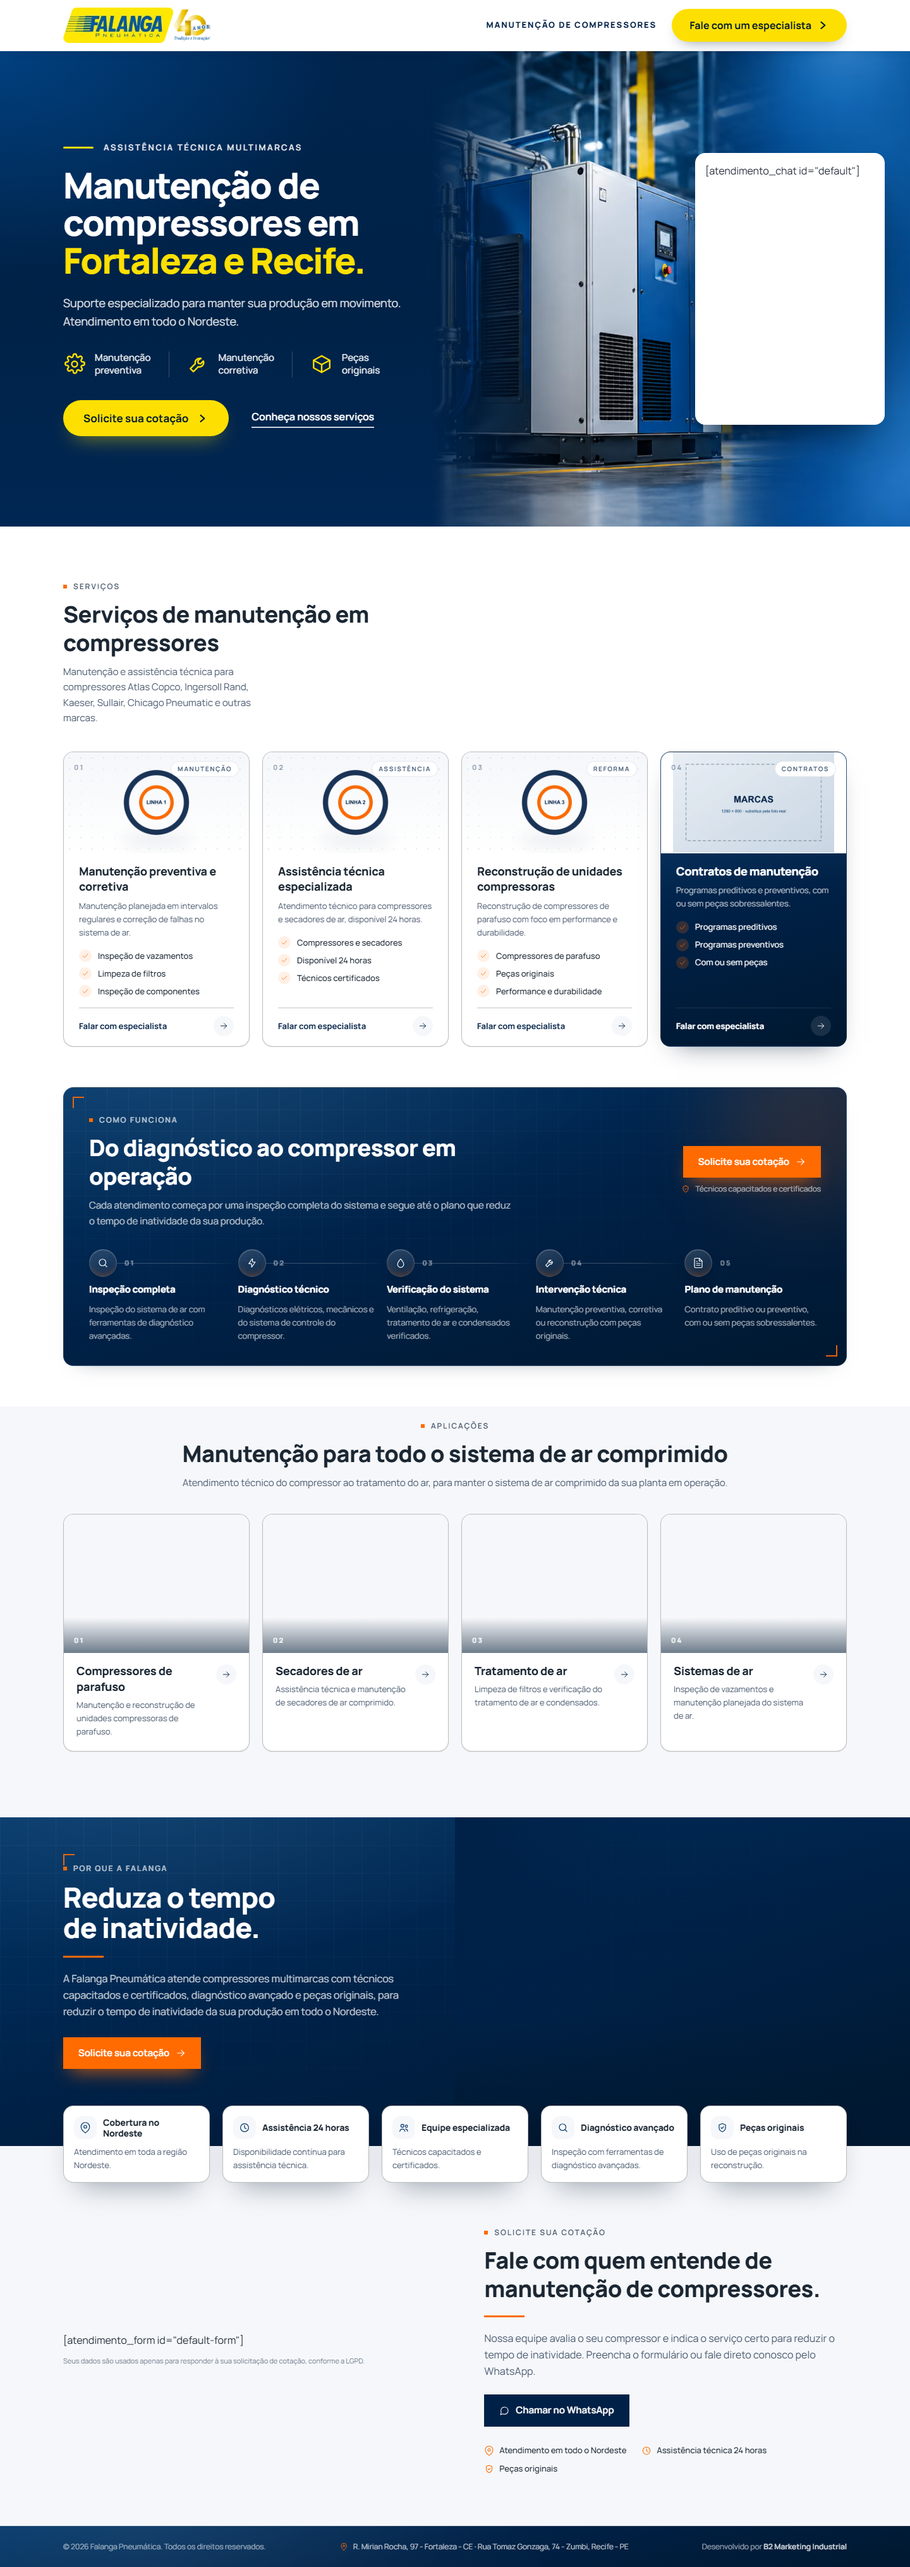
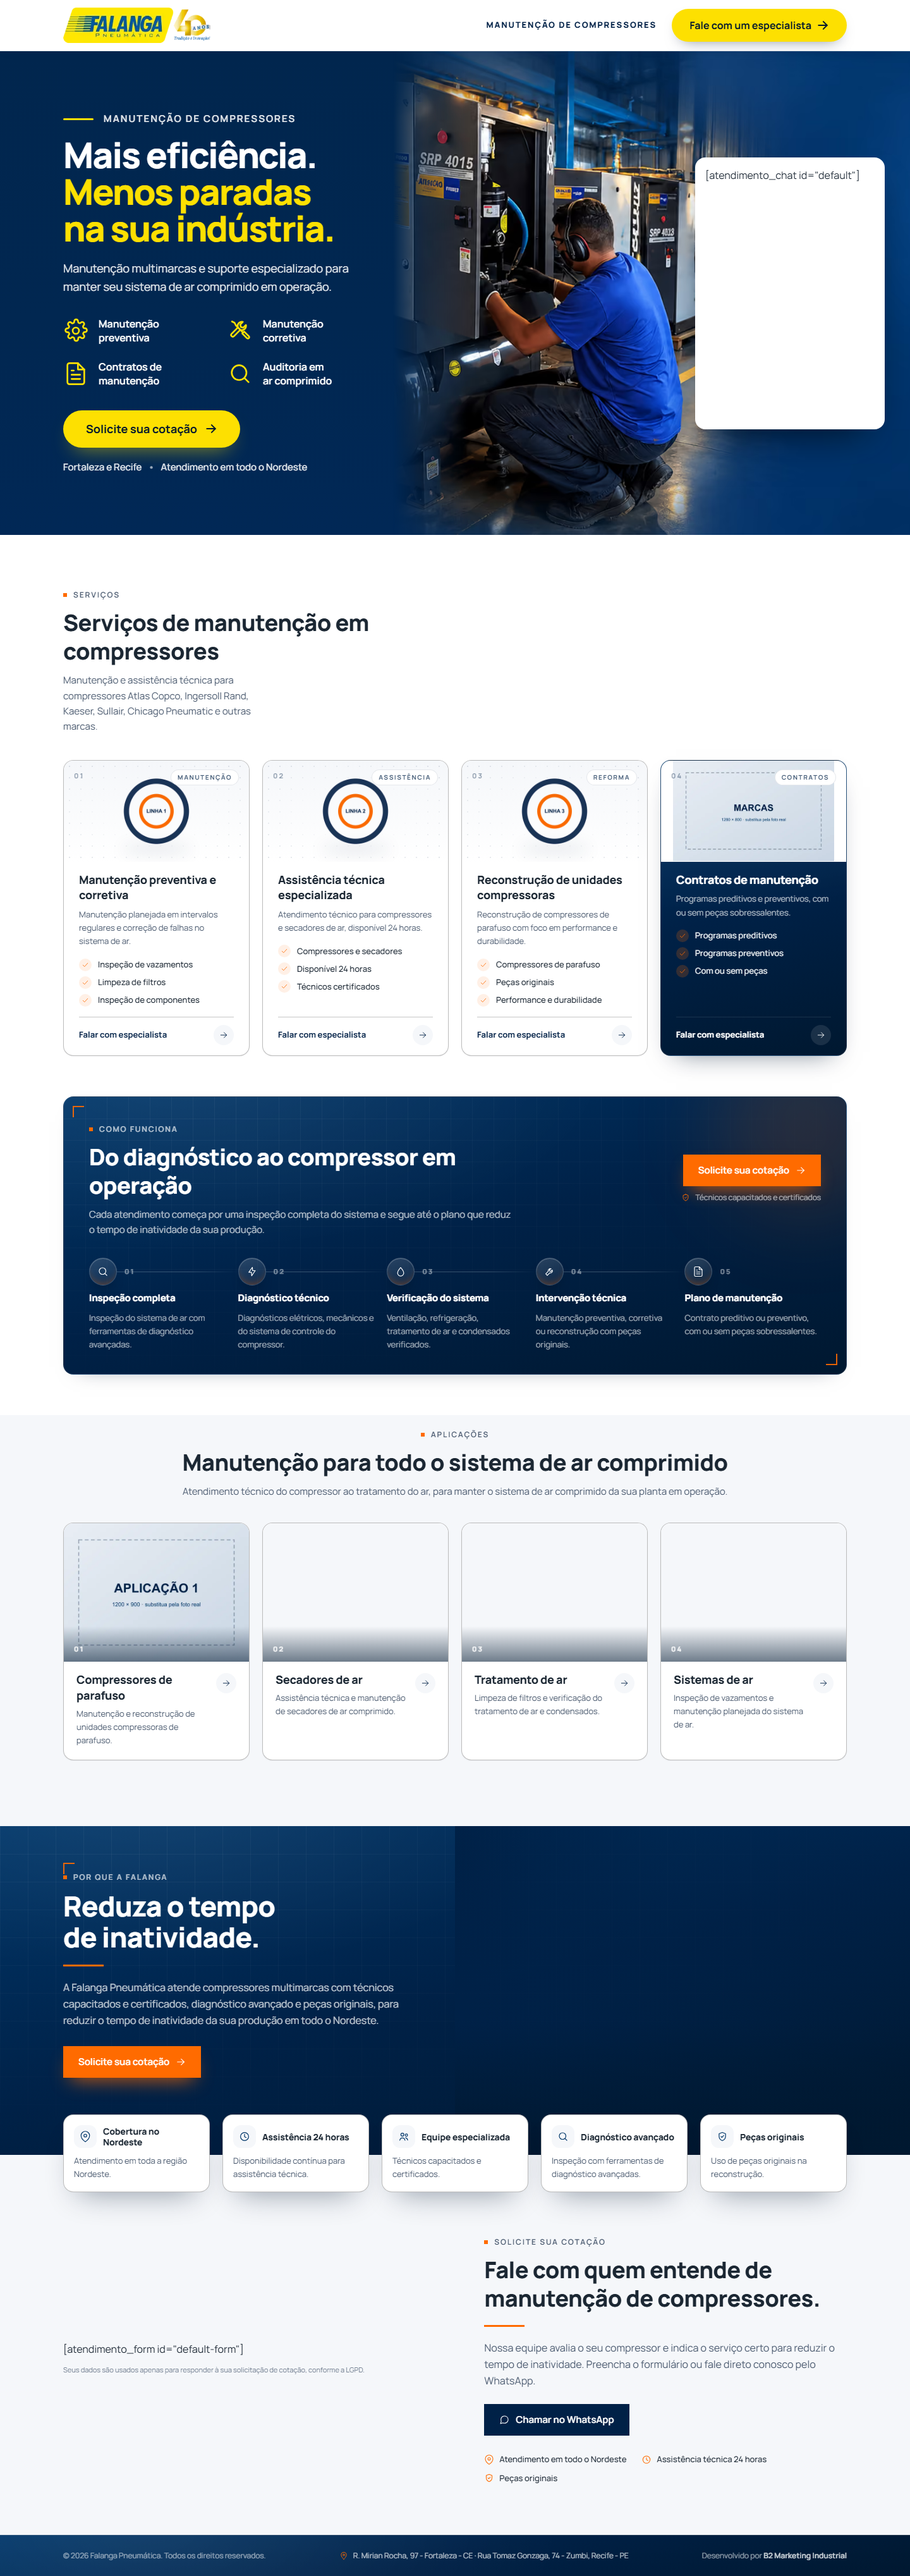
feat: hero com o segundo mockup do cliente
Manchete "Mais eficiência. Menos paradas na sua indústria." com a linha de
abertura "Manutenção de compressores" como H1, para a palavra-chave da
campanha continuar no H1 e na primeira dobra. Foto do técnico no compressor
logo depois do texto, 4 pontos em grade 2×2 (preventiva, corretiva, contratos
e auditoria), um único CTA com seta e a área atendida embaixo.

Entra o ícone tools para a manutenção corretiva. O validador da ficha aceita
4 pontos nesta LP, e a assinatura A8 do Hero acompanha a foto, que agora
começa 100px antes do fim da coluna de texto. O banner segue provisório,
recortado do mockup. Desvios em docs/BRIEFING.md.

diff --git a/src/data/content.ts b/src/data/content.ts
@@ -48,31 +48,35 @@ export const header = {
 /* -------------------------------------------------------------------- hero */
 
 export const hero = {
-  eyebrow: 'Assistência técnica multimarcas',
-  /** H1 inteiro: é o que o check:lp confere contra a palavra-chave da campanha. */
-  title: 'Manutenção de compressores em Fortaleza e Recife.',
-  /** Trecho final do H1 que vai em amarelo, em linha própria. Tem de estar em `title`. */
-  highlight: 'Fortaleza e Recife.',
-  text: 'Suporte especializado para manter sua produção em movimento. Atendimento em todo o Nordeste.',
-  /** Link de rolagem até os serviços, no lugar do botão secundário (mockup do cliente). */
-  secondary: { label: 'Conheça nossos serviços', target: '#linhas' },
+  /**
+   * H1 da página, exibido como a linha de abertura acima da manchete (mockup do cliente,
+   * 21/10/2026). É o que o check:lp confere contra a palavra-chave da campanha.
+   */
+  title: 'Manutenção de compressores',
+  /** Manchete visual, uma linha por item: primeiro em branco, depois em amarelo. */
+  headline: ['Mais eficiência.'],
+  highlight: ['Menos paradas', 'na sua indústria.'],
+  text: 'Manutenção multimarcas e suporte especializado para manter seu sistema de ar comprimido em operação.',
+  /** Linha de área atendida abaixo do CTA, separada por ponto. */
+  area: ['Fortaleza e Recife', 'Atendimento em todo o Nordeste'],
   banner: {
     src: heroBg,
-    alt: 'Compressor de parafuso em sala de ar comprimido industrial, com tubulação e reservatório',
+    alt: 'Técnico da Falanga em manutenção de compressor de parafuso aberto, numa sala com outros compressores',
   },
   points: [
     { icon: 'gear', line1: 'Manutenção', line2: 'preventiva' },
-    { icon: 'wrench', line1: 'Manutenção', line2: 'corretiva' },
-    { icon: 'box', line1: 'Peças', line2: 'originais' },
+    { icon: 'tools', line1: 'Manutenção', line2: 'corretiva' },
+    { icon: 'file', line1: 'Contratos de', line2: 'manutenção' },
+    { icon: 'search', line1: 'Auditoria em', line2: 'ar comprimido' },
   ],
 } as const satisfies {
-  eyebrow: string
   title: string
-  highlight: string
+  headline: readonly string[]
+  highlight: readonly string[]
   text: string
-  secondary: { label: string; target: `#${string}` }
+  area: readonly string[]
   banner: Photo
-  points: readonly [HeroPoint, HeroPoint, HeroPoint]
+  points: readonly [HeroPoint, HeroPoint, HeroPoint, HeroPoint]
 }
 
 /* ----------------------------------------------------------------- cotação */

diff --git a/src/data/icons.ts b/src/data/icons.ts
@@ -47,6 +47,9 @@ export const iconPaths = {
     '<circle cx="5.5" cy="12" r="1.4"/><circle cx="12" cy="12" r="1.4"/><circle cx="18.5" cy="12" r="1.4"/>',
   wrench:
     '<path d="M14.7 6.3a4.5 4.5 0 0 0-6 5.3L3.5 16.8l3.2 3.2 5.2-5.2a4.5 4.5 0 0 0 5.3-6l-2.9 2.9-2.4-.6-.6-2.4 2.9-2.9Z"/>',
+  /** Chave inglesa e chave de fenda cruzadas: manutenção corretiva (mockup Falanga, 21/10/2026). */
+  tools:
+    '<path d="M14.5 3.6a4 4 0 0 0-4.6 5.3l-6 6a1.6 1.6 0 0 0 2.3 2.3l6-6a4 4 0 0 0 5.3-4.6l-2.5 2.5-2.3-.6-.6-2.3 2.4-2.6Z"/><path d="m4.3 3.3 2.4 1.2 1.2 2.4 6.6 6.6"/><path d="m14 14.6 1.8-1.8 4.6 4.6a1.3 1.3 0 0 1-1.8 1.8l-4.6-4.6Z"/>',
   clock: '<circle cx="12" cy="12" r="8.5"/><path d="M12 7v5.2l3.5 2"/>',
   zap: '<path d="M13 3 6 13.5h5L10 21l7.5-10.5h-5L13 3Z"/>',
   'map-pin':

diff --git a/docs/BRIEFING.md b/docs/BRIEFING.md
@@ -103,7 +103,7 @@ Derivada em: 21/10/2026 · comando aplicado: `npm run compose -- linhas processo
 | Asset          | Arquivo esperado        | Especificação                                                                                        | Status                                                         |
 | -------------- | ----------------------- | ---------------------------------------------------------------------------------------------------- | -------------------------------------------------------------- |
 | Logo           | `src/assets/LOGO.png`   | logo oficial com o selo de 40 anos, 341×82, fundo transparente — baixada de falangapneumatica.com.br | entregue (baixa resolução: pedir vetor ou PNG 2×)              |
-| Banner do hero | `src/assets/heroBg.png` | 1981×900, recortado do mockup do cliente (21/10/2026) e estendido à direita                          | **provisório** — pedir o arquivo original do banner, sem texto |
+| Banner do hero | `src/assets/heroBg.png` | 1981×900, recortado do segundo mockup do cliente (21/10/2026) e estendido à direita                  | **provisório** — pedir o arquivo original do banner, sem texto |
 
 | Asset                          | Arquivo esperado                                   | Especificação                                   | Status   |
 | ------------------------------ | -------------------------------------------------- | ----------------------------------------------- | -------- |
@@ -139,23 +139,30 @@ Imagens citadas no material e ainda não validadas para uso: `Design-sem-nome-46
 
 ## Desvios do padrão — abertura (21/10/2026)
 
-Header e Hero refeitos conforme o mockup que o cliente enviou em 21/10/2026, seguindo o mesmo caminho da LP Spinplus Manutenção (19/10/2026).
+Header e Hero refeitos conforme os mockups que o cliente enviou em 21/10/2026. O segundo mockup substituiu o primeiro no hero. O caminho é o mesmo da LP Spinplus Manutenção (19/10/2026).
 
-| O que o mockup pedia                             | Como entrou                                                                 | Regra do padrão afetada                                         |
-| ------------------------------------------------ | --------------------------------------------------------------------------- | --------------------------------------------------------------- |
-| Header branco com a logo dentro da barra         | barra branca, logo alinhada, sem a placa pendurada                          | 4.1.1 — assinatura A8 do `check-lp.mjs` repinada                |
-| Menu A empresa · Serviços · Produtos · Contato   | **não entrou**; no lugar, a tagline em navy                                 | regra 1 — uma rota, uma página, sem menu                        |
-| CTA "Fale com um especialista" em pílula amarela | igual no desktop; "Cotação" no mobile                                       | vocabulário de CTA (item 8) e botão de cantos retos             |
-| Amarelo da Falanga                               | token `brand-yellow` (#FDE001) só na abertura, sempre com texto navy        | item 2 — o resto da página segue laranja e navy                 |
-| Foto do compressor logo depois do texto          | foto do fim da coluna 1 até a borda da tela, com a borda esquerda esmaecida | 4.1.2 — assinatura A8 repinada; grid e coluna de 300px mantidos |
-| Sem chat no hero                                 | chat **mantido** num card branco na margem direita, como na Spinplus        | regra 4 — dois slots de shortcode                               |
-| "Fortaleza e Recife." em amarelo                 | mesmo H1, com o trecho final em amarelo                                     | regra de copy sem ponto final em título                         |
-| 3 pontos: preventiva, corretiva, peças originais | itens soltos com ícone amarelo e divisórias                                 | 4.1.2 — caixa de vidro dos 3 pontos                             |
-| "Conheça nossos serviços" como link sublinhado   | link âncora para `#linhas`, com `data-cta="hero-secondary"`                 | regra 3 — todo CTA é `button.btn-slave-whats`                   |
+| O que o mockup pedia                                                            | Como entrou                                                                                        | Regra do padrão afetada                                                           |
+| ------------------------------------------------------------------------------- | -------------------------------------------------------------------------------------------------- | --------------------------------------------------------------------------------- |
+| Header branco com a logo dentro da barra                                        | barra branca, logo alinhada, sem a placa pendurada                                                 | 4.1.1 — assinatura A8 do `check-lp.mjs` repinada                                  |
+| Menu A empresa · Serviços · Produtos · Contato                                  | **não entrou**; no lugar, a tagline em navy                                                        | regra 1 — uma rota, uma página, sem menu                                          |
+| CTA "Fale com um especialista →" em pílula amarela                              | igual no desktop; "Cotação" no mobile                                                              | vocabulário de CTA (item 8) e botão de cantos retos                               |
+| Amarelo da Falanga                                                              | token `brand-yellow` (#FDE001) só na abertura, sempre com texto navy                               | item 2 — o resto da página segue laranja e navy                                   |
+| Manchete "Mais eficiência. Menos paradas na sua indústria." sem a palavra-chave | a linha de abertura "Manutenção de compressores" é o `<h1>`; a manchete é um parágrafo em destaque | regra 17 — a palavra-chave continua no H1 e no title, e visível na primeira dobra |
+| Foto do técnico no compressor logo depois do texto                              | foto do fim da coluna 1 até a borda da tela, com a borda esquerda esmaecida                        | 4.1.2 — assinatura A8 repinada; grid e coluna de 300px mantidos                   |
+| Sem chat no hero                                                                | chat **mantido** num card branco na margem direita, como na Spinplus                               | regra 4 — dois slots de shortcode                                                 |
+| 4 pontos em grade 2×2                                                           | preventiva, corretiva, contratos e auditoria, com ícone amarelo                                    | entrada 6 — 3 pontos; `scripts/ficha.mjs` aceita 4 nesta LP                       |
+| Um único CTA, sem botão secundário                                              | só "Solicite sua cotação →"; `hero-secondary` deixa de existir                                     | 4.1.2 — dois botões no hero                                                       |
+| "Fortaleza e Recife • Atendimento em todo o Nordeste" abaixo do CTA             | linha de área atendida no hero                                                                     | —                                                                                 |
 
-Também nesta rodada: o ícone `gear` passou a ser uma engrenagem de verdade (o da v2.8.0 desenha um sol), com o mesmo caminho da LP Spinplus. O `check:lp` avisa que a logo (341×82) não tem a proporção 240×200 do slot: é a proporção da logo oficial, e o header foi ajustado para ela.
+Também nesta rodada:
 
-Entre 1024 e cerca de 1600 px o card do chat cobre a borda direita do gabinete do compressor. É o limite do container de 1320 px, o mesmo registrado na Spinplus.
+- O ícone `gear` passou a ser uma engrenagem de verdade (o da v2.8.0 desenha um sol), com o mesmo caminho da LP Spinplus.
+- Entrou o ícone `tools` (chave inglesa e chave de fenda cruzadas), para "manutenção corretiva".
+- O `check:lp` avisa que a logo (341×82) não tem a proporção 240×200 do slot. É a proporção da logo oficial, e o header foi ajustado para ela.
+
+A foto começa 100px antes do fim da coluna 1, e o texto (no máximo 32rem) termina antes disso. A partir de ~1440px o técnico fica livre do card do chat. Entre 1024 e ~1400px o card cobre parte das costas dele, o mesmo limite do container de 1320px registrado na Spinplus.
+
+O banner foi recortado do segundo mockup e estendido à direita com o próprio desfoque. A foto original do site (`big-image-1.png`) tem só 450×451. A foto mostra compressores Schulz SRP; o site do cliente tem a página "assistência técnica Schulz" e a Schulz aparece na arte de marcas atendidas. Isso pode resolver a lacuna da família Schulz, mas o claim "autorizada" continua proibido até o cliente confirmar.
 
 ## Estado da entrega
 

diff --git a/docs/FICHA-LP.md b/docs/FICHA-LP.md
@@ -106,22 +106,25 @@ conteudo:
   title: Manutenção de compressores em Fortaleza e Recife | Falanga Pneumática
   description: 'Manutenção de compressores multimarcas em Fortaleza e Recife: Atlas Copco, Ingersoll Rand, Kaeser, Sullair e outras. Assistência técnica 24 horas.'
   hero:
-    eyebrow: Assistência técnica multimarcas
-    title: Manutenção de compressores em Fortaleza e Recife.
-    highlight: Fortaleza e Recife.
-    text: Suporte especializado para manter sua produção em movimento. Atendimento em todo o Nordeste.
-    secondary: Conheça nossos serviços
-    banner: Compressor de parafuso em sala de ar comprimido industrial, com tubulação e reservatório
+    title: Manutenção de compressores
+    headline: [Mais eficiência.]
+    highlight: [Menos paradas, na sua indústria.]
+    text: Manutenção multimarcas e suporte especializado para manter seu sistema de ar comprimido em operação.
+    area: [Fortaleza e Recife, Atendimento em todo o Nordeste]
+    banner: Técnico da Falanga em manutenção de compressor de parafuso aberto, numa sala com outros compressores
     points:
       - icon: gear
         line1: Manutenção
         line2: preventiva
-      - icon: wrench
+      - icon: tools
         line1: Manutenção
         line2: corretiva
-      - icon: box
-        line1: Peças
-        line2: originais
+      - icon: file
+        line1: Contratos de
+        line2: manutenção
+      - icon: search
+        line1: Auditoria em
+        line2: ar comprimido
   quote:
     eyebrow: Solicite sua cotação
     title: Fale com quem entende de manutenção de compressores.
